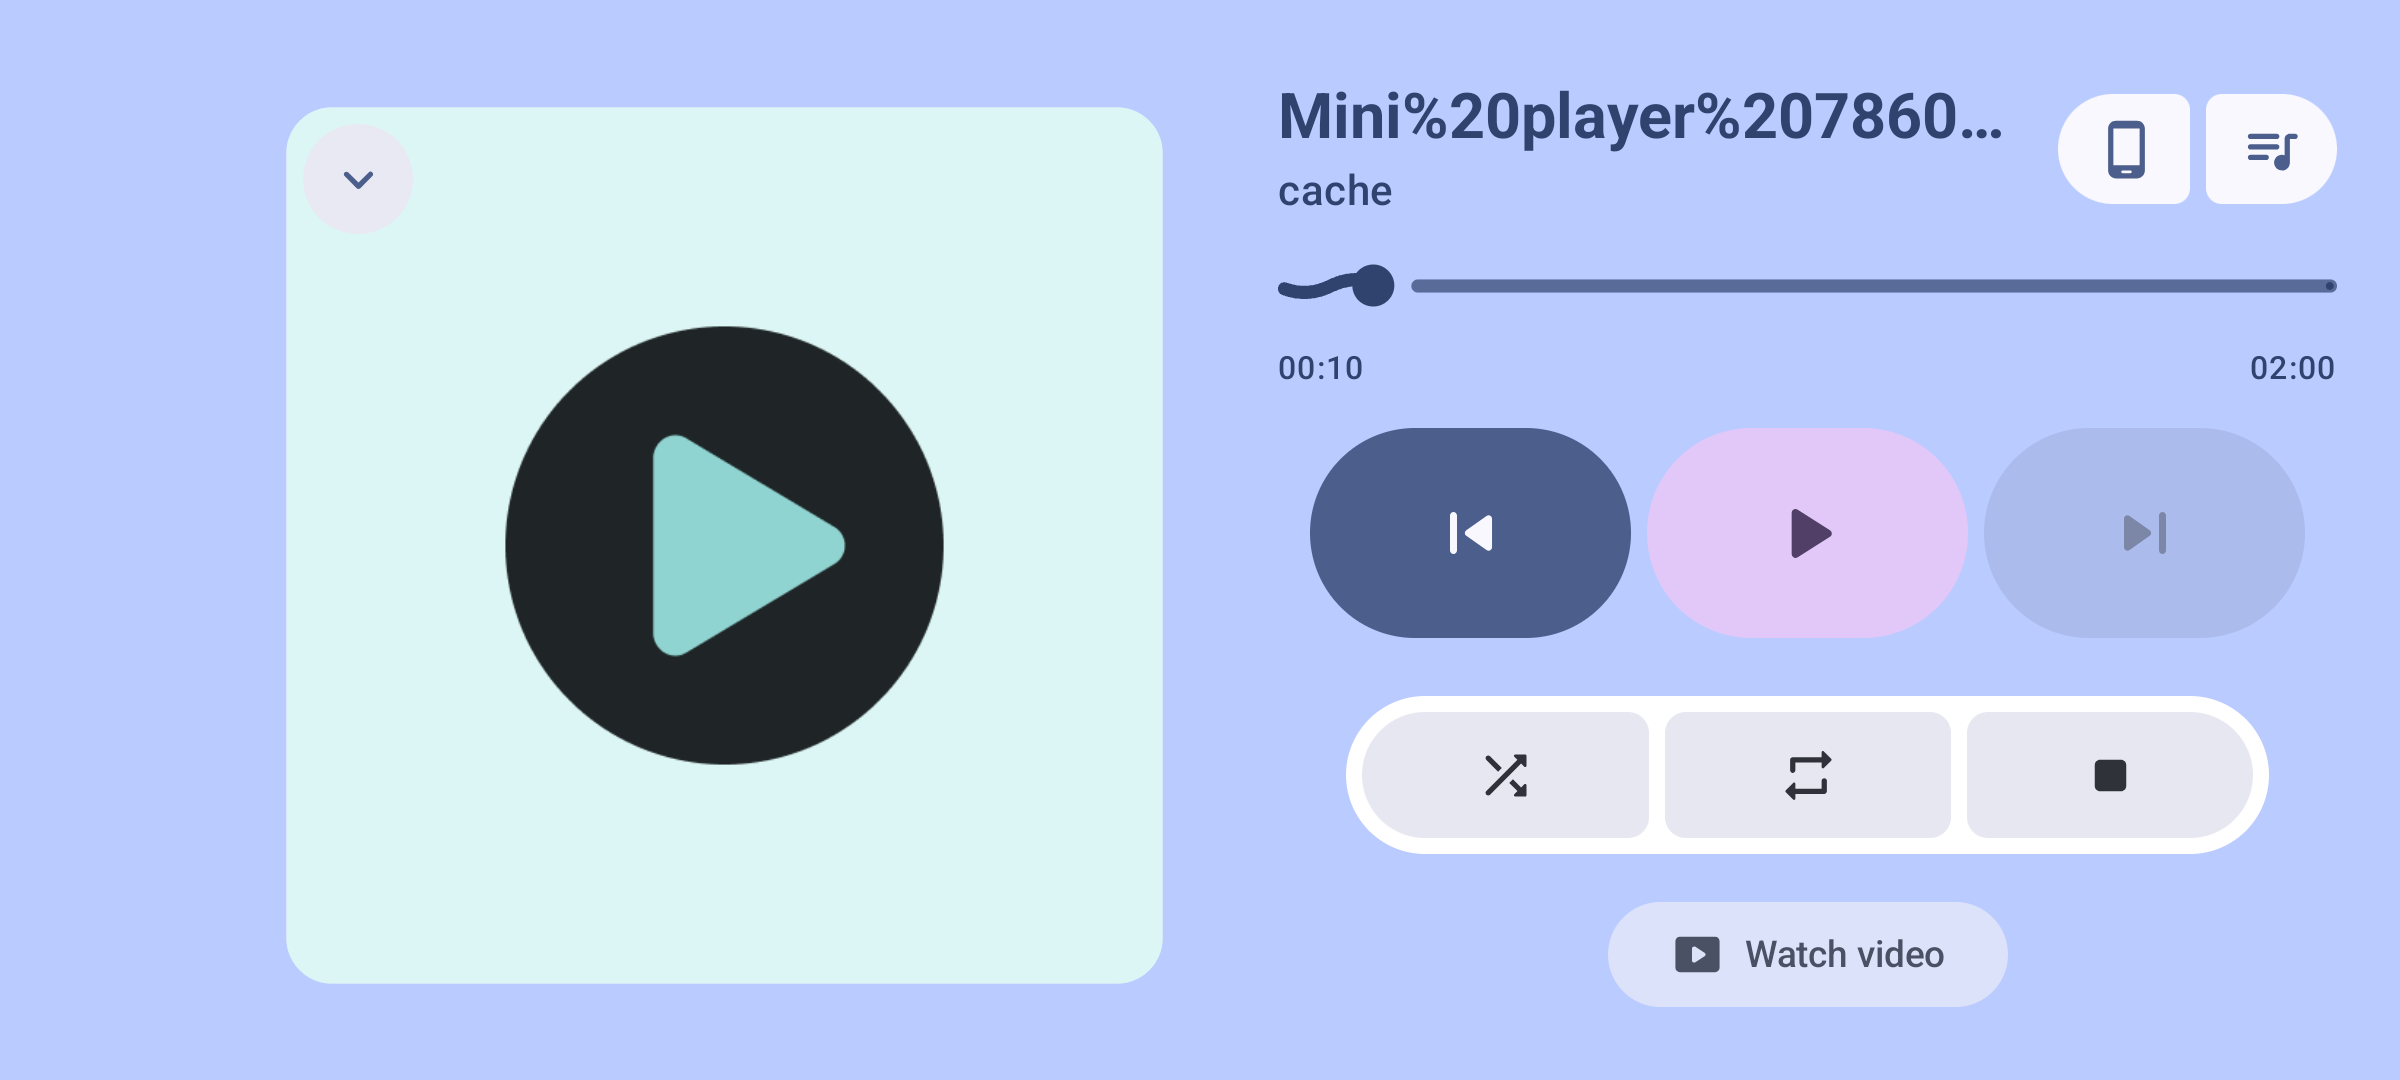
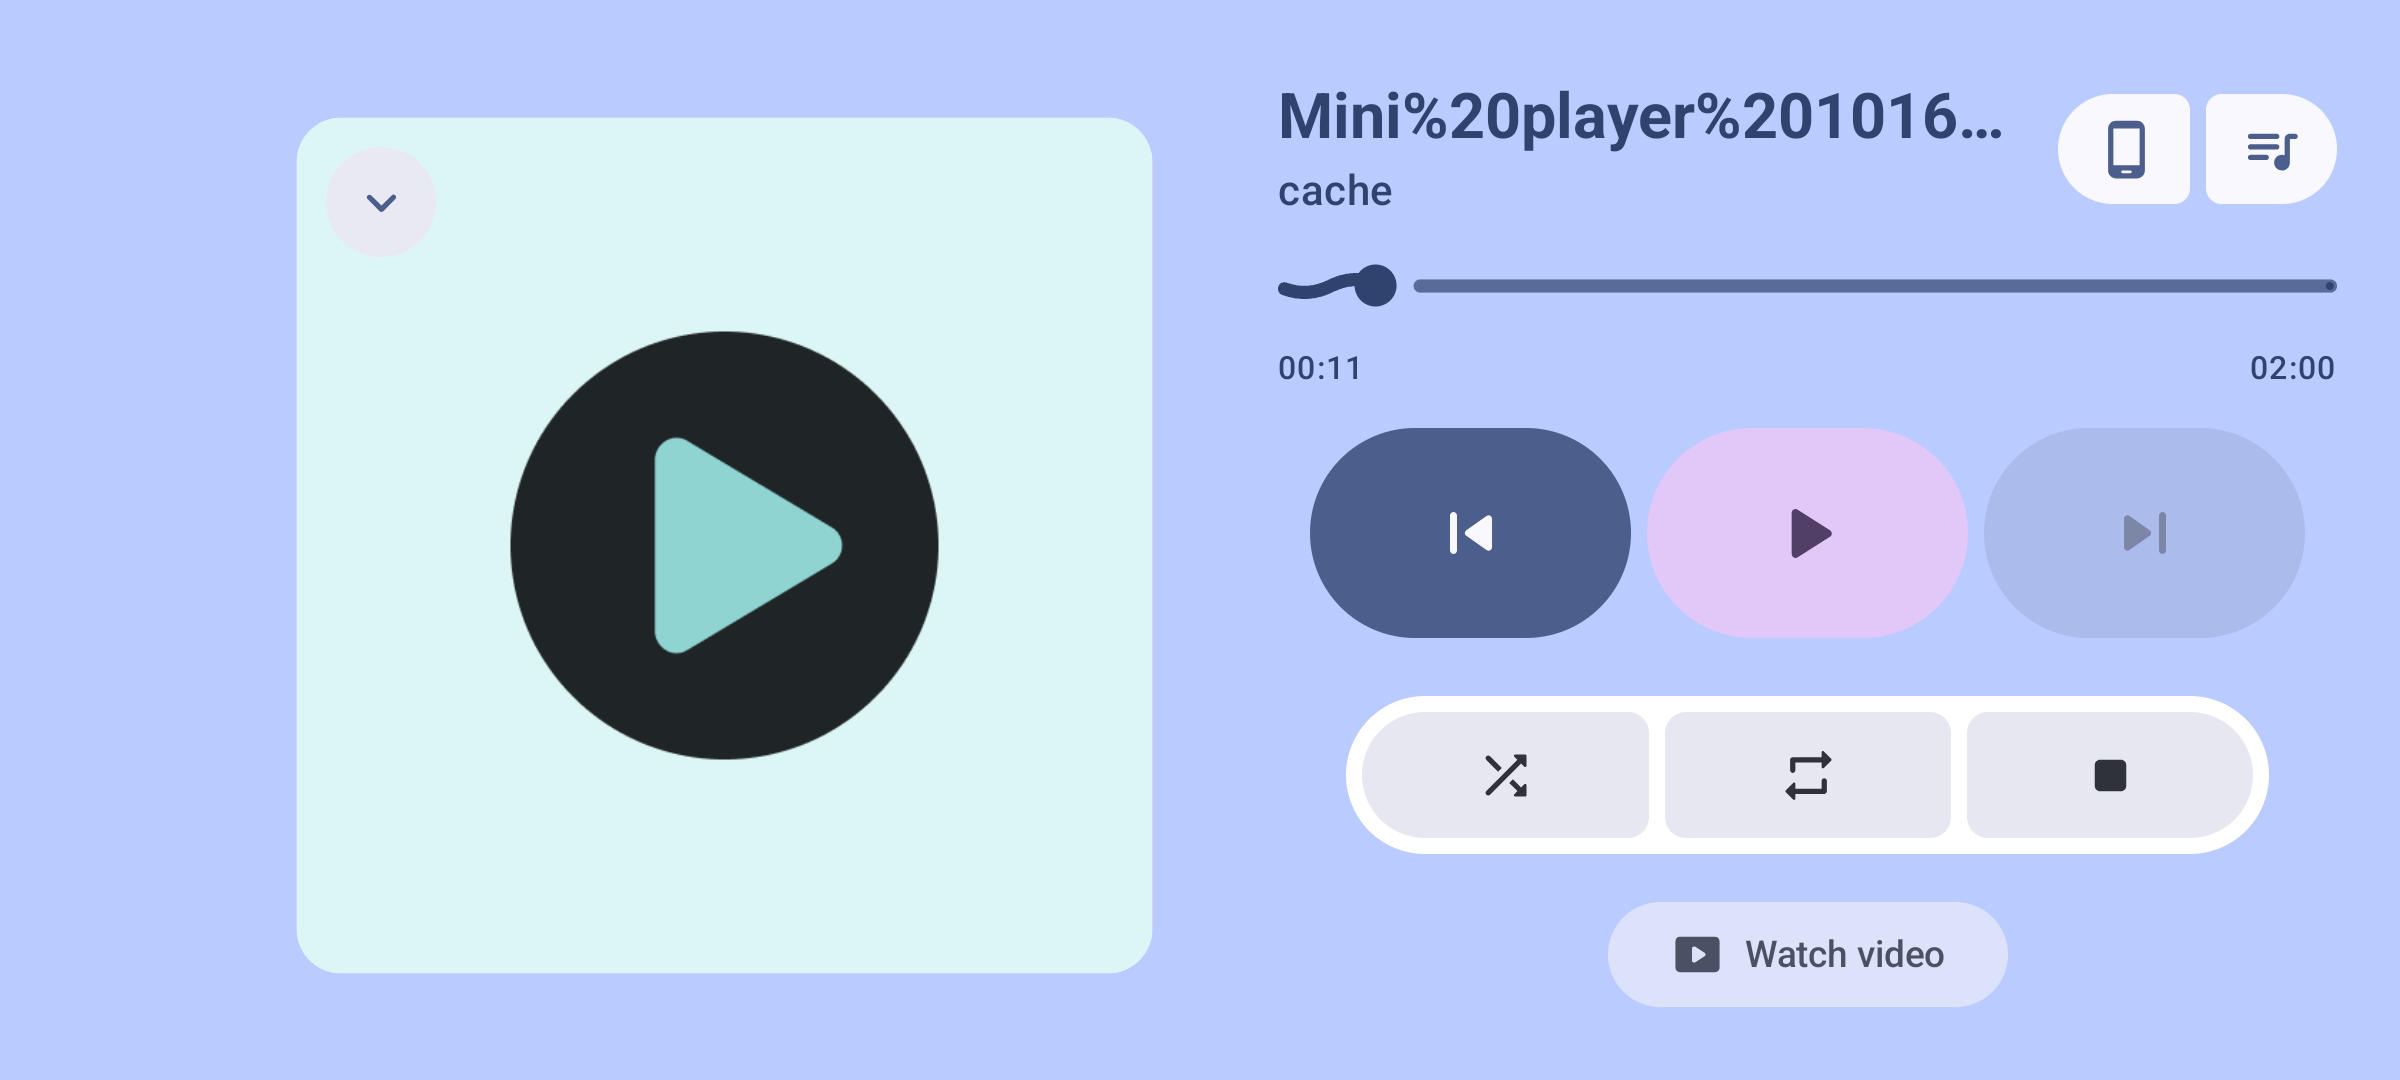
Polish large-window collapse and scrolling title edges

diff --git a/feature/player/src/main/java/dev/anilbeesetti/nextplayer/feature/player/ExpandedPlaybackControls.kt b/feature/player/src/main/java/dev/anilbeesetti/nextplayer/feature/player/ExpandedPlaybackControls.kt
@@ -18,6 +18,7 @@ import androidx.compose.animation.fadeOut
 import androidx.compose.animation.slideInHorizontally
 import androidx.compose.animation.slideOutHorizontally
 import androidx.compose.animation.togetherWith
+import androidx.compose.foundation.MarqueeSpacing
 import androidx.compose.foundation.basicMarquee
 import androidx.compose.foundation.gestures.detectHorizontalDragGestures
 import androidx.compose.foundation.interaction.MutableInteractionSource
@@ -72,13 +73,19 @@ import androidx.compose.runtime.DisposableEffect
 import androidx.compose.runtime.LaunchedEffect
 import androidx.compose.runtime.getValue
 import androidx.compose.runtime.mutableFloatStateOf
+import androidx.compose.runtime.mutableIntStateOf
 import androidx.compose.runtime.mutableStateOf
 import androidx.compose.runtime.remember
 import androidx.compose.runtime.setValue
 import androidx.compose.ui.Alignment
 import androidx.compose.ui.Modifier
+import androidx.compose.ui.draw.drawWithContent
 import androidx.compose.ui.focus.FocusRequester
 import androidx.compose.ui.focus.focusRequester
+import androidx.compose.ui.graphics.BlendMode
+import androidx.compose.ui.graphics.Brush
+import androidx.compose.ui.graphics.Color
+import androidx.compose.ui.graphics.CompositingStrategy
 import androidx.compose.ui.graphics.graphicsLayer
 import androidx.compose.ui.input.pointer.pointerInput
 import androidx.compose.ui.platform.LocalContext
@@ -120,6 +127,15 @@ internal fun ExpandedPlaybackControls(
     onCommand: (CustomCommands) -> Unit,
     dragModifier: Modifier,
 ) {
+    val artworkScale by animateFloatAsState(
+        if (snapshot.playWhenReady) 1f else .95f,
+        animationSpec = tween(
+            260,
+            easing = FastOutSlowInEasing,
+        ),
+        label = "playback_artwork_scale",
+    )
+    var titleWidth by remember(title) { mutableIntStateOf(0) }
     val collapseFocus = remember { FocusRequester() }
     LaunchedEffect(Unit) { collapseFocus.requestFocus() }
     val pane = stringResource(R.string.now_playing)
@@ -147,11 +163,33 @@ internal fun ExpandedPlaybackControls(
                         title,
                         modifier = Modifier.testTag("playback_media_title").then(
                             if (scrollTitle) {
-                                Modifier.basicMarquee(iterations = Int.MAX_VALUE)
+                                Modifier.graphicsLayer {
+                                    compositingStrategy = CompositingStrategy.Offscreen
+                                }.drawWithContent {
+                                    drawContent()
+                                    if (titleWidth > size.width && size.width > 0f) {
+                                        val edge = (24.dp.toPx() / size.width).coerceAtMost(.5f)
+                                        drawRect(
+                                            Brush.horizontalGradient(
+                                                0f to Color.Transparent,
+                                                edge to Color.Black,
+                                                1f - edge to Color.Black,
+                                                1f to Color.Transparent,
+                                            ),
+                                            blendMode = BlendMode.DstIn,
+                                        )
+                                    }
+                                }.basicMarquee(
+                                    iterations = Int.MAX_VALUE,
+                                    initialDelayMillis = 2000,
+                                    velocity = 25.dp,
+                                    spacing = MarqueeSpacing(30.dp),
+                                )
                             } else {
                                 Modifier
                             },
                         ),
+                        onTextLayout = { titleWidth = it.size.width },
                         style = MaterialTheme.typography.headlineSmall.copy(
                             fontWeight = FontWeight.Bold,
                         ),
@@ -245,8 +283,8 @@ internal fun ExpandedPlaybackControls(
                     Modifier.weight(1f).fillMaxHeight().padding(vertical = 8.dp),
                     contentAlignment = Alignment.Center,
                 ) {
-                    Box(
-                        Modifier.fillMaxHeight().aspectRatio(
+                    BoxWithConstraints(
+                        Modifier.aspectRatio(
                             1f,
                             matchHeightConstraintsFirst = true,
                         )
@@ -256,13 +294,15 @@ internal fun ExpandedPlaybackControls(
                             player,
                             snapshot,
                             controlsEnabled,
+                            artworkScale,
                             Modifier.fillMaxSize().then(dragModifier),
                         )
                         PlaybackCollapseButton(
                             onCollapse,
                             Modifier.align(
                                 Alignment.TopStart,
-                            ).padding(8.dp).testTag("landscape_collapse")
+                            ).padding(8.dp + maxWidth * ((1f - artworkScale) / 2f))
+                                .testTag("landscape_collapse")
                                 .then(dragModifier).focusRequester(collapseFocus),
                         )
                     }
@@ -322,6 +362,7 @@ internal fun ExpandedPlaybackControls(
                                 player,
                                 snapshot,
                                 controlsEnabled,
+                                artworkScale,
                                 Modifier.fillMaxWidth().aspectRatio(1f).then(dragModifier),
                             )
                         }
@@ -497,17 +538,10 @@ private fun PlaybackArtworkCarousel(
     player: Player,
     snapshot: PlaybackSnapshot,
     controlsEnabled: Boolean,
+    artworkScale: Float,
     modifier: Modifier,
 ) {
     val rtl = LocalLayoutDirection.current == LayoutDirection.Rtl
-    val artworkScale by animateFloatAsState(
-        if (snapshot.playWhenReady) 1f else .95f,
-        animationSpec = tween(
-            260,
-            easing = FastOutSlowInEasing,
-        ),
-        label = "playback_artwork_scale",
-    )
     var direction by remember { mutableFloatStateOf(0f) }
     var drag by remember { mutableFloatStateOf(0f) }
     Box(

diff --git a/feature/player/src/test/java/dev/anilbeesetti/nextplayer/feature/player/PlaybackOverlayTest.kt b/feature/player/src/test/java/dev/anilbeesetti/nextplayer/feature/player/PlaybackOverlayTest.kt
@@ -489,6 +489,35 @@ class PlaybackOverlayTest {
     }
 
     @Test
+    @Config(qualifiers = "w1400dp-h900dp-land")
+    fun pausedLandscapeCollapseStaysInsideScaledArtworkOnLargeWindows() {
+        expanded = true
+        show()
+        composeRule.mainClock.advanceTimeBy(600)
+        val frame = composeRule.onNodeWithTag("landscape_artwork_frame").getUnclippedBoundsInRoot()
+        val button = composeRule.onNodeWithTag("landscape_collapse").getUnclippedBoundsInRoot()
+        val shrink = (frame.right - frame.left) * .025f
+        assertTrue(frame.right - frame.left > 440.dp)
+        assertEquals(
+            (frame.left + shrink + 8.dp).value,
+            button.left.value,
+            .5f,
+        )
+        assertEquals(
+            (frame.top + shrink + 8.dp).value,
+            button.top.value,
+            .5f,
+        )
+        val metadata = composeRule.onNodeWithTag("playback_metadata").getUnclippedBoundsInRoot()
+        val root = composeRule.onNodeWithTag("expanded_player").getUnclippedBoundsInRoot()
+        assertTrue(frame.left >= root.left && frame.top >= root.top)
+        assertTrue(frame.right <= metadata.left && frame.bottom <= root.bottom)
+        assertTrue(button.right <= frame.right - shrink)
+        assertTrue(button.bottom <= frame.bottom - shrink)
+        assertTrue(button.right - button.left >= 48.dp)
+    }
+
+    @Test
     @Config(qualifiers = "w640dp-h360dp-land")
     fun longLandscapeTitleScrollsOnlyDuringPlaybackWithSystemMotionEnabled() {
         val resolver = composeRule.activity.contentResolver

diff --git a/app/src/androidTest/java/dev/anilbeesetti/nextplayer/MiniPlayerIntegrationTest.kt b/app/src/androidTest/java/dev/anilbeesetti/nextplayer/MiniPlayerIntegrationTest.kt
@@ -550,7 +550,7 @@ class MiniPlayerIntegrationTest {
             )
             onMain { player.pause() }
             await("paused marquee") { !player.playWhenReady }
-            clock.advanceTimeBy(100)
+            clock.advanceTimeBy(400)
             composeRule.waitUntil(10_000) {
                 clock.advanceTimeByFrame()
                 val layouts = mutableListOf<androidx.compose.ui.text.TextLayoutResult>()

diff --git a/docs/design/global-playback-controls/verification.md b/docs/design/global-playback-controls/verification.md
@@ -7,11 +7,11 @@ Third stack layer: `cast/global-playback-controls`, based on `cast/home-mini-pla
 Run with JDK 17 launcher, the repository's JVM 21 daemon criteria, and `ANDROID_HOME=/Users/anil/Library/Android/sdk`:
 
 ```sh
-./gradlew assembleDebug :app:assemblePlayDebugAndroidTest test ktlintCheck --max-workers=2 \
+./gradlew assembleDebug :app:assemblePlayDebugAndroidTest :app:assembleStandardDebugAndroidTest test ktlintCheck --max-workers=2 \
   '-Dorg.gradle.jvmargs=-Xmx4096m -Dfile.encoding=UTF-8'
 ```
 
-Final XML totals after visual refinement: **865 tests in 155 suites, zero failures, errors or skips**. This includes 844 Android local tests and 21 JVM model/ktlint-rule tests. XML is inspected because local tests use `ignoreFailures=true`.
+Final XML totals after visual refinement: **867 tests in 155 suites, zero failures, errors or skips**. This includes 846 Android local tests and 21 JVM model/ktlint-rule tests. XML is inspected because local tests use `ignoreFailures=true`.
 
 Meaningful regressions cover:
 
@@ -59,10 +59,10 @@ Manual flows checked paused/playing controls, an artwork-origin downward drag th
 
 ## Second parity round
 
-See [the parity comparison](parity-review.md) for the landscape/header/seek/contrast corrections, current screenshots and review evidence. The latest instrumentation verifies actual title movement/paused ellipsis and held seek endpoints, in addition to rotation across light/dark and playing/paused states, plus touch scrubbing without collapsing the overlay. It asserts all expanded actions are visible in landscape without scrolling.
+See [the parity comparison](parity-review.md) for the landscape/header/seek/contrast corrections, current screenshots and review evidence. The latest instrumentation verifies actual title movement/paused ellipsis and held seek endpoints, in addition to rotation across light/dark and playing/paused states, plus touch scrubbing without collapsing the overlay. It asserts all expanded actions are visible in landscape without scrolling. After the final large-window/collapse and title-fade corrections, both distributions passed the two visual/native-motion cases again. Refreshed title PNGs have at most 2/255 channel difference from the background at the viewport edges while interior text remains above 80/255; a pixel self-check required edge differences ≤8/255. The paused artwork capture now waits for its animation to settle.
 
 ## Limits
 
-- The earlier Play build was installed on the connected OPPO CPH2689 without clearing its data. The visual refinement was tested on Pixel_6a only, following the user's instruction. No phone/receiver runtime playback claim is made; Cast connection/recovery timing still needs hardware verification.
+- The latest Play build was installed on the connected OPPO CPH2689 and Pixel_6a without clearing data. The visual refinement was tested on Pixel_6a only, following the user's instruction. No phone/receiver runtime playback claim is made; Cast connection/recovery timing still needs hardware verification.
 - The prior original 4K/~59fps/~56 Mbps Camera buffering problem remains outside this UI layer. No transcoding or server-performance fix is claimed.
 - No PixelPlayer source or assets were copied. No dependencies or `fastlane/` files changed.

diff --git a/docs/design/global-playback-controls/parity-review.md b/docs/design/global-playback-controls/parity-review.md
@@ -58,4 +58,11 @@ The second capture set contains 17 images: the original 12 light/dark portrait/l
 
 Additional evidence: [seek start](parity/dark-landscape-seek-start.png), [seek end](parity/dark-landscape-seek-end.png), [title before scrolling](parity/landscape-title-scroll-start.png), [title after scrolling](parity/landscape-title-scroll-end.png), [paused title](parity/landscape-title-paused.png).
 
-A fresh Claude Opus 5.5 recheck is requested against the corrected source and captures. The reference-runtime comparison limitation above remains unchanged.
+The fresh Claude Opus 5.5 recheck ran on `c6c5bfd7`, inspected all 17 captures, JSON geometry, production code, tests and the pinned reference, and confirmed all five earlier fixes with no correctness defects. It identified two additional P3 visual details, addressed afterward:
+
+| Before | After | Why |
+| --- | --- | --- |
+| Collapse was inset from the unscaled frame, so paused artwork could shrink past it in a large landscape window. | Share the artwork's animated scale with the collapse inset, adding half the shrink on each side while retaining a 48 dp touch target. | Keeps the button inside the visible artwork through pause/play and window-size changes; a paused 1400 × 900 dp regression covers frames above 440 dp and checks that the square fits its column without crossing metadata. |
+| Playing landscape titles clipped glyphs sharply beside the output chip. | Fade overflowing text over 24 dp on both edges, with a 2-second delay, 25 dp/s velocity and 30 dp marquee spacing. Short, paused and reduced-motion titles retain their usual rendering. | Matches the reference title treatment without changing native text semantics or introducing a new dependency. |
+
+The title-paused capture also waits for the 260 ms artwork animation to settle. Both distributions passed the two focused matrix/title-motion tests again. Refreshed title pixels fade to within 2/255 channel difference of the background at the viewport edges while interior text remains visible. These final two corrections are verified locally after the Opus recheck; they were not separately reviewed by Opus. The reference-runtime comparison limitation above remains unchanged.
